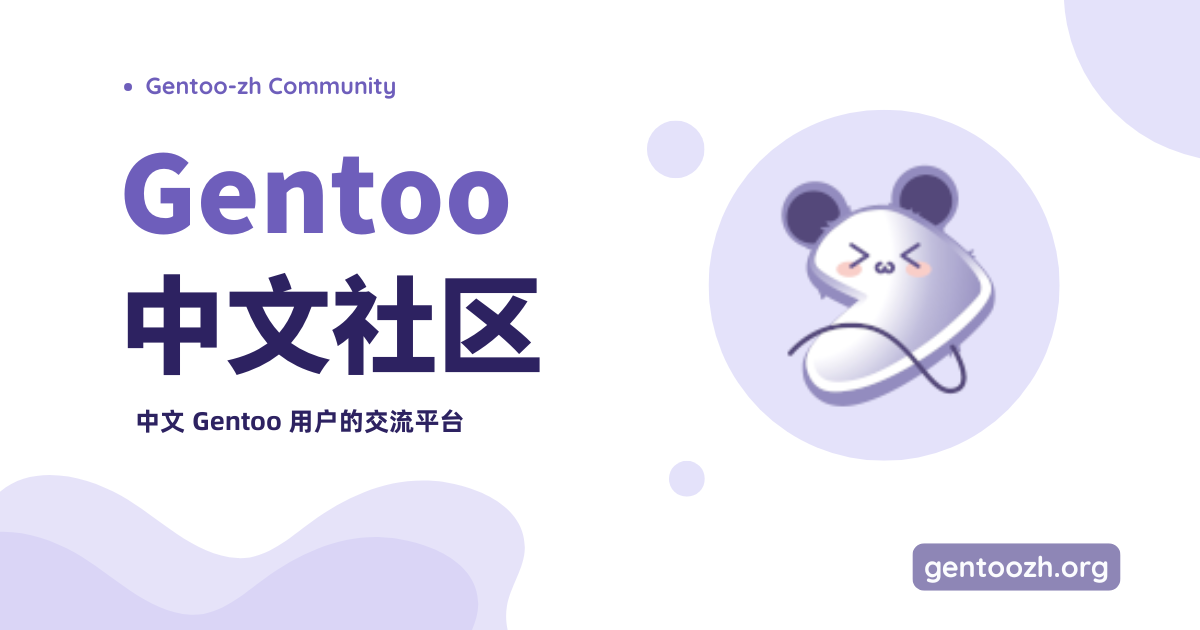
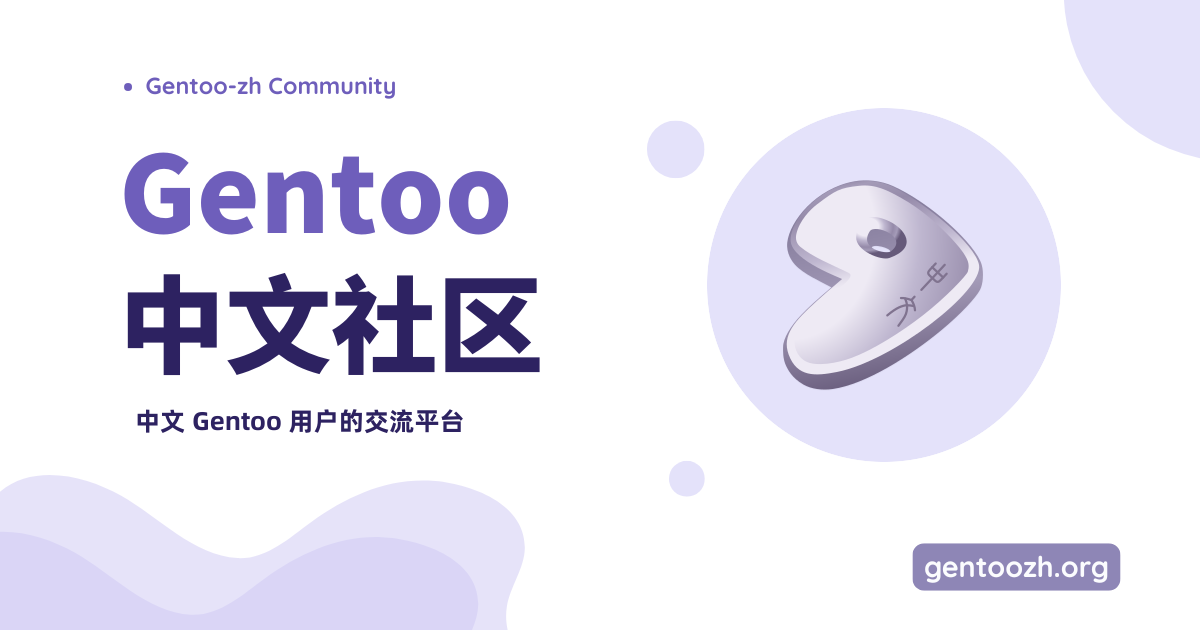
站点：改用 gentoo-zh 新标志
导航栏换成横版标志，深色主题用白字版本；favicon、apple-touch-icon、
404 页图标与 og-cover 一并换成新图标。关于页的版权一节改为说明新标志
改编自 Gentoo 标志，以 CC BY-SA 2.5 发布。

Changed region(s): [[0.6475, 0.2413, 0.8325, 0.6635]]

diff --git a/content/en/about/_index.md b/content/en/about/_index.md
@@ -81,4 +81,4 @@ Only the public pages (About, Download, Mirror list, Contributing) are fully in 
 
 ## Copyright notice
 
-Logo from: [https://wiki.gentoo.org/wiki/Project:Artwork/Artwork#Genchu](https://wiki.gentoo.org/wiki/Project:Artwork/Artwork#Genchu)
+The gentoo-zh logo is adapted from the Gentoo logo and released under [CC BY-SA 2.5](https://creativecommons.org/licenses/by-sa/2.5/). The vector versions of the Gentoo logo are copyright Gentoo Foundation and Lennart Andre Rolland. The [logo page](/logo/) has every variant and the sources of the letterforms.

diff --git a/content/zh-cn/about/_index.md b/content/zh-cn/about/_index.md
@@ -81,4 +81,4 @@ title: "关于"
 
 ## 版权声明
 
-Logo 来自：[https://wiki.gentoo.org/wiki/Project:Artwork/Artwork#Genchu](https://wiki.gentoo.org/wiki/Project:Artwork/Artwork#Genchu)
+gentoo-zh 标志改编自 Gentoo 标志，以 [CC BY-SA 2.5](https://creativecommons.org/licenses/by-sa/2.5/) 发布。Gentoo 标志的矢量版本版权归 Gentoo Foundation 与 Lennart Andre Rolland 所有。各版本文件与字形出处见[标志页](/logo/)。

diff --git a/content/zh-tw/about/_index.md b/content/zh-tw/about/_index.md
@@ -81,4 +81,4 @@ title: "關於"
 
 ## 版權聲明
 
-Logo 來自：[https://wiki.gentoo.org/wiki/Project:Artwork/Artwork#Genchu](https://wiki.gentoo.org/wiki/Project:Artwork/Artwork#Genchu)
+gentoo-zh 標誌改編自 Gentoo 標誌，以 [CC BY-SA 2.5](https://creativecommons.org/licenses/by-sa/2.5/) 發布。Gentoo 標誌的向量版本版權歸 Gentoo Foundation 與 Lennart Andre Rolland 所有。各版本檔案與字形出處見[標誌頁](/logo/)。
